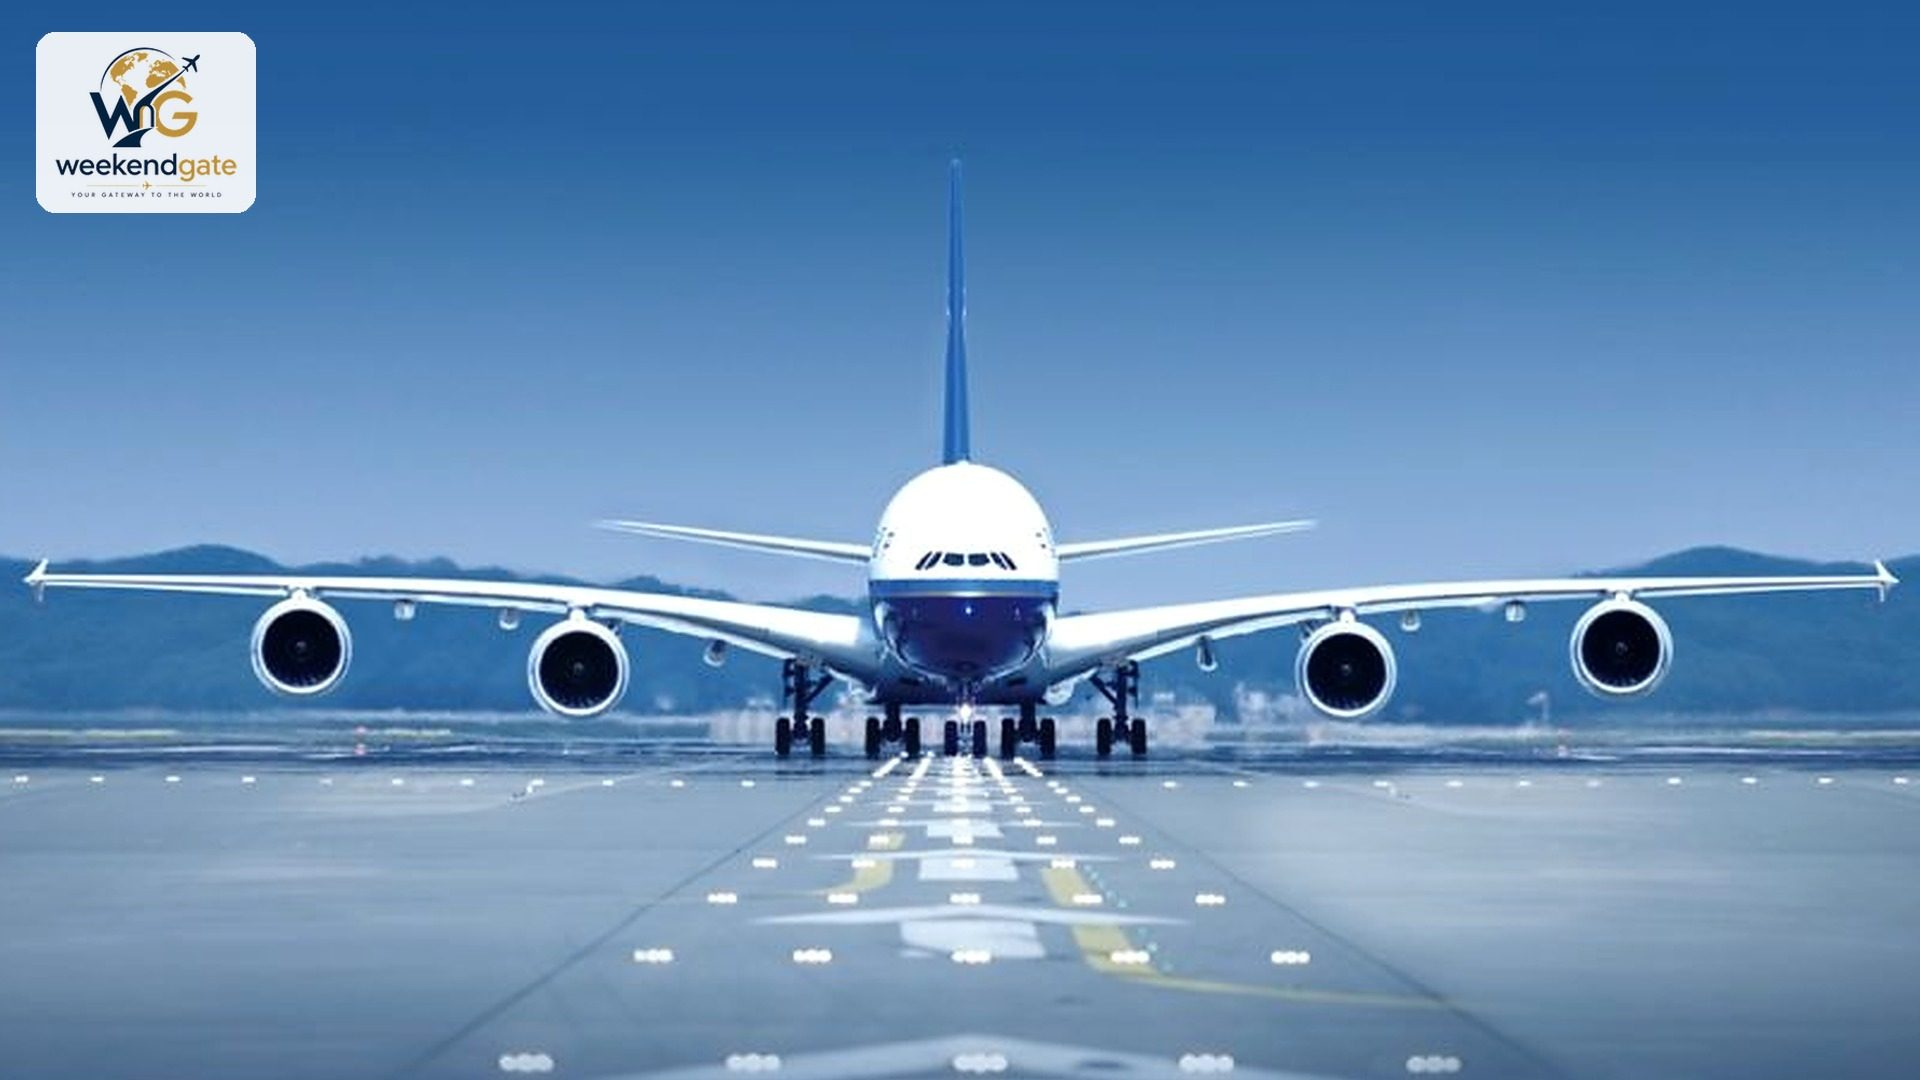
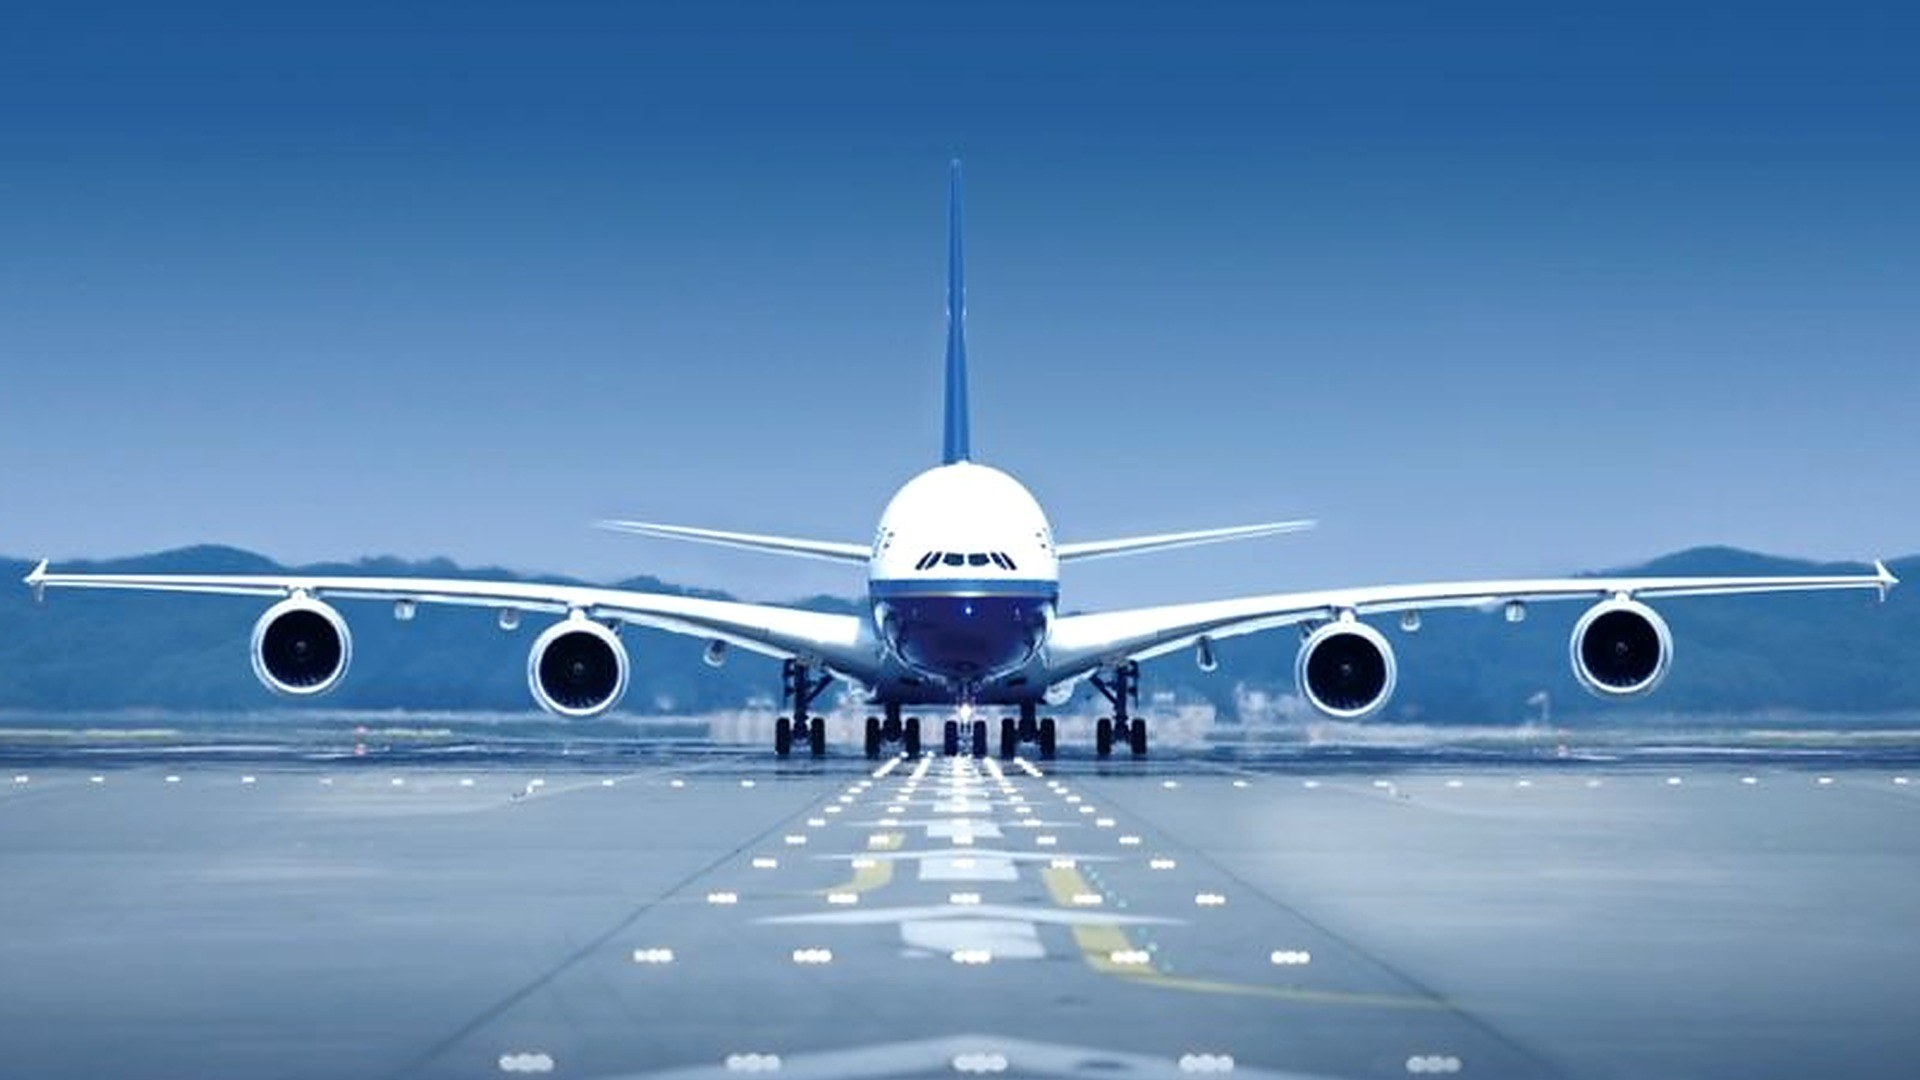
fix(shop): clean hero badge; header uses WG mark + WeekendGate text
Remove the branded logo plate from the hero poster, and show WeekendGate
text before an icon-only WG mark in the site header (no wordmark under the mark).

Changed region(s): [[0.0, 0.0306, 0.1562, 0.2139]]

diff --git a/apps/web/src/components/shop/WeekendGateLogo.tsx b/apps/web/src/components/shop/WeekendGateLogo.tsx
@@ -1,15 +1,15 @@
 export function WeekendGateLogo() {
   return (
-    <span className="wg-logo">
+    <span className="wg-logo" dir="ltr">
+      <span className="wg-logo-word">
+        Weekend<span className="wg-logo-gate">Gate</span>
+      </span>
       <img
-        src="/weekendgate-mark.svg"
+        src="/weekendgate-mark.png"
         alt=""
         className="wg-logo-mark"
         aria-hidden
       />
-      <span className="wg-logo-word">
-        Weekend<span className="wg-logo-gate">Gate</span>
-      </span>
     </span>
   );
 }

diff --git a/apps/web/src/app/shop.css b/apps/web/src/app/shop.css
@@ -72,17 +72,16 @@
 .wg-logo {
   display: inline-flex;
   align-items: center;
-  gap: 0.65rem;
+  gap: 0.55rem;
 }
 
 .wg-logo-mark {
   display: block;
-  width: 52px;
-  height: 52px;
+  width: 48px;
+  height: 48px;
   flex-shrink: 0;
-  object-fit: cover;
-  object-position: top center;
-  border-radius: 4px;
+  object-fit: contain;
+  object-position: center;
 }
 
 .wg-logo-word {

diff --git a/apps/web/src/lib/shop-content.ts b/apps/web/src/lib/shop-content.ts
@@ -195,7 +195,7 @@ export const SHOP_REVIEWS: ShopReview[] = [
 
 export const HERO_SLIDES = [
   {
-    image: "/media/hero-travel-poster.jpg?v=6",
+    image: "/media/hero-travel-poster.jpg?v=7",
     kicker: "WEEKENDGATE TRAVEL",
     title: "الطبيعة العظيمة",
     subtitle: "سافر بمتعة",
